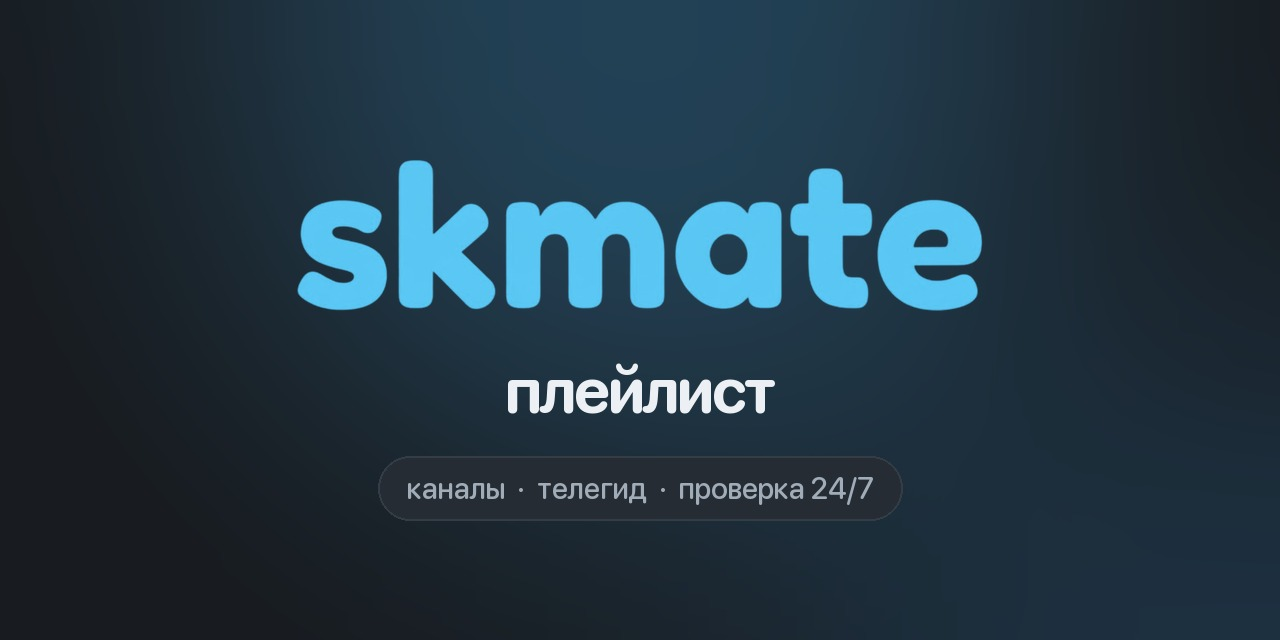
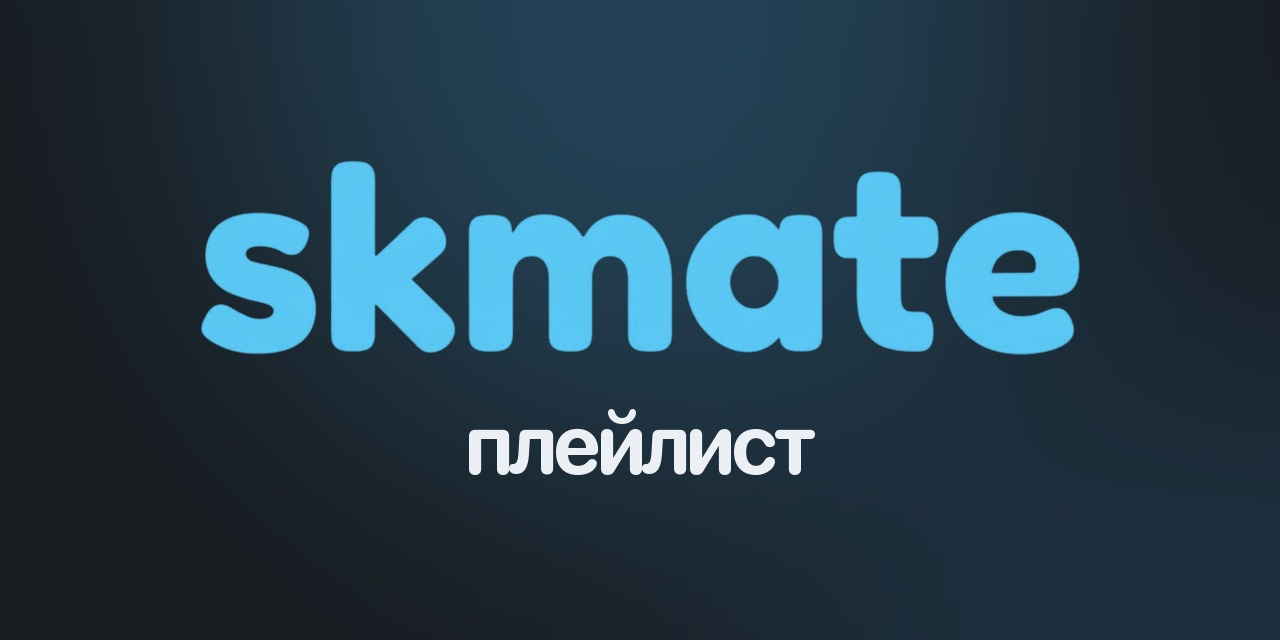
баннер бота проще

Changed region(s): [[0.1562, 0.25, 0.8438, 0.7812]]

diff --git a/tools/playlist-server/render_banner.py b/tools/playlist-server/render_banner.py
@@ -42,28 +42,19 @@ def main() -> None:
         for x in range(mark.size[0]):
             r, g, b = px[x, y]
             mp[x, y] = max(0, min(255, int((b - 45) * 255 / (245 - 45))))
-    scale = 0.78
+    scale = 1.0
     mark = mark.resize((int(mark.size[0] * scale), int(mark.size[1] * scale)), Image.LANCZOS)
     mask = mask.resize(mark.size, Image.LANCZOS)
     solid = Image.new("RGB", mark.size, ACCENT)
     mx = (W - mark.size[0]) // 2
-    my = 150
+    my = 148
     img.paste(solid, (mx, my), mask)
 
     draw = ImageDraw.Draw(img)
     title = "плейлист"
-    f1 = font(64, 700)
+    f1 = font(84, 700)
     tw = draw.textlength(title, font=f1)
-    draw.text(((W - tw) / 2, my + mark.size[1] + 30), title, font=f1, fill=(236, 240, 244))
-
-    tag = "каналы  ·  телегид  ·  проверка 24/7"
-    f2 = font(30, 500)
-    tw2 = draw.textlength(tag, font=f2)
-    pad_x, pad_y = 28, 14
-    top = my + mark.size[1] + 135
-    box = ((W - tw2) / 2 - pad_x, top, (W + tw2) / 2 + pad_x, top + 30 + pad_y * 2 + 6)
-    draw.rounded_rectangle(box, radius=40, fill=(38, 44, 51), outline=(52, 60, 69), width=2)
-    draw.text(((W - tw2) / 2, top + pad_y), tag, font=f2, fill=(160, 172, 184))
+    draw.text(((W - tw) / 2, my + mark.size[1] + 24), title, font=f1, fill=(236, 240, 244))
 
     img.save(os.path.join(HERE, "banner.jpg"), quality=92)
 

diff --git a/tools/playlist-server/skmate_playlist.py b/tools/playlist-server/skmate_playlist.py
@@ -1130,6 +1130,17 @@ def show(chat: int, text: str, markup: dict, note: str = "", fresh: bool = False
         text = text + "\n\n" + note
     ui = get_ui(chat)
     msg = ui.get("msg")
+    # A new banner.jpg replaces the cached picture: Telegram keeps the old one under its file id.
+    try:
+        sig = f"{os.path.getsize(BANNER)}:{int(os.path.getmtime(BANNER))}"
+    except OSError:
+        sig = ""
+    with lock:
+        state = load_state()
+        if state.get("banner_sig") != sig:
+            state.pop("banner_id", None)
+            state["banner_sig"] = sig
+            save_state(state)
     if not load_state().get("banner_id"):
         # The banner's file id comes from a first upload as a photo; rich messages reuse it.
         try:
